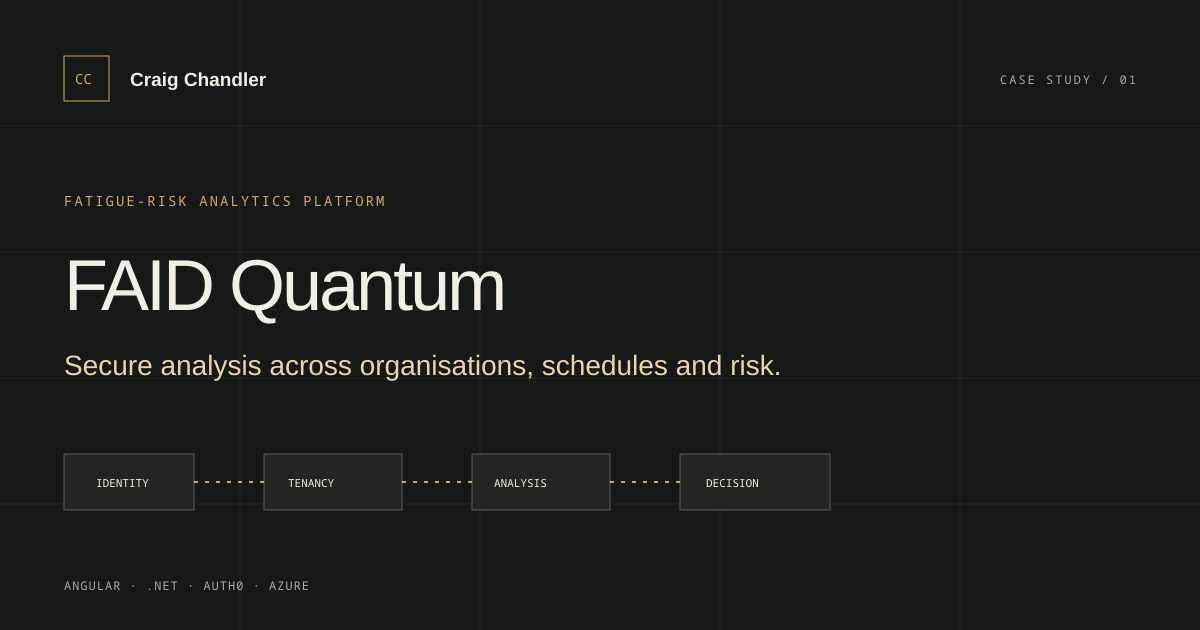
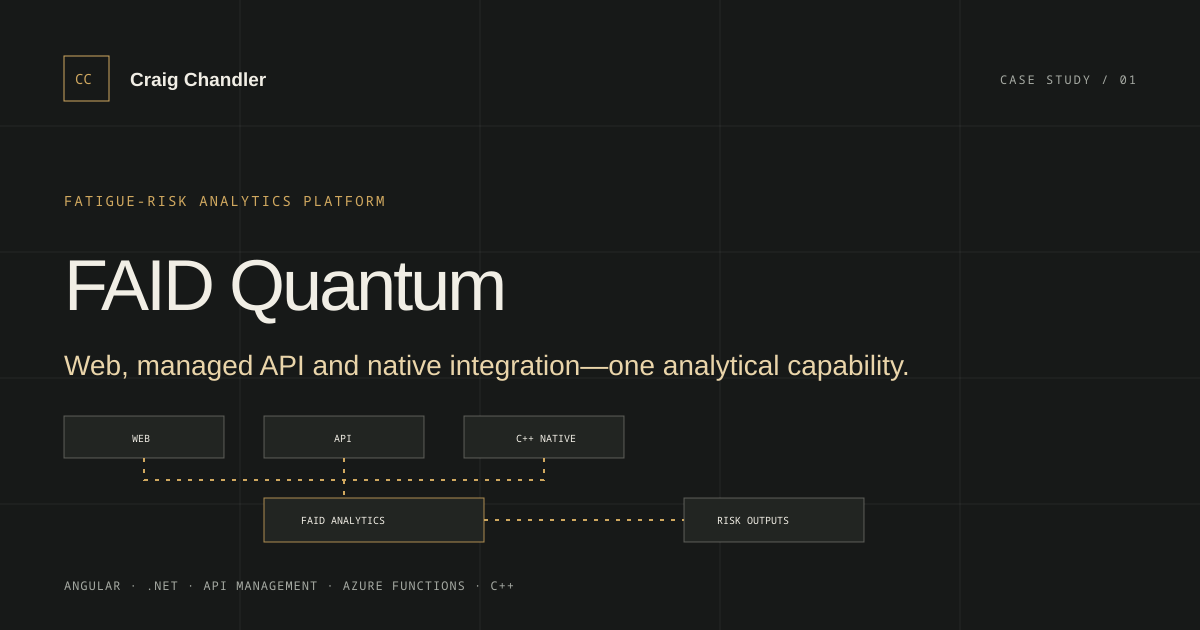
feat: update FAID Quantum platform details and enhance architecture diagram for clarity

diff --git a/src/styles/global.css b/src/styles/global.css
@@ -1356,9 +1356,7 @@ h3 {
 }
 
 .diagram-arrow,
-.diagram-control-link i,
-.diagram-boundary-link i,
-.diagram-stack-link i {
+.diagram-control-link i {
   color: var(--accent);
   font-family: var(--font-mono);
   font-style: normal;
@@ -1389,56 +1387,136 @@ h3 {
   line-height: 1.5;
 }
 
-/* FAID Quantum: identity boundary feeding a tenant-scoped application. */
+/* FAID Quantum: three delivery surfaces converging on one analytical capability. */
 .diagram-faid {
   display: grid;
-  align-items: center;
-  grid-template-columns: minmax(220px, 0.72fr) minmax(130px, auto) minmax(380px, 1.45fr);
-  gap: clamp(1rem, 2.6vw, 2.2rem);
+  gap: 1rem;
 }
 
-.diagram-identity {
-  border-style: dashed;
+.diagram-faid-delivery,
+.diagram-faid-support {
+  min-width: 0;
+  padding: clamp(1rem, 2vw, 1.5rem);
+  border: 1px solid var(--line-strong);
+  background: rgba(23, 25, 24, 0.86);
 }
 
-.diagram-tenant {
-  border-color: rgba(208, 168, 95, 0.45);
+.diagram-faid-surface-grid {
+  display: grid;
+  grid-template-columns: repeat(3, minmax(0, 1fr));
+  gap: 0.75rem;
 }
 
-.diagram-boundary-link {
-  display: flex;
-  align-items: center;
-  color: var(--muted);
+.diagram-faid-surface {
+  position: relative;
+  min-height: 138px;
+}
+
+.diagram-faid-surface::after {
+  position: absolute;
+  bottom: -2.05rem;
+  left: 50%;
+  width: 1px;
+  height: 1.25rem;
+  background: rgba(208, 168, 95, 0.58);
+  content: '';
+}
+
+.diagram-faid-surface em {
+  margin-top: 0.35rem;
+  color: var(--ink-soft);
   font-family: var(--font-mono);
   font-size: 0.52rem;
-  gap: 0.7rem;
+  font-style: normal;
   line-height: 1.45;
 }
 
-.diagram-boundary-link i {
-  font-size: 1rem;
+.diagram-faid-convergence {
+  display: flex;
+  align-items: center;
+  min-height: 46px;
+  border-top: 1px solid rgba(208, 168, 95, 0.38);
+  color: var(--muted);
+  font-family: var(--font-mono);
+  font-size: 0.52rem;
+  flex-direction: column;
+  gap: 0.25rem;
+  justify-content: center;
+  line-height: 1.45;
 }
 
-.diagram-stack-link {
+.diagram-faid-convergence i {
+  color: var(--accent);
+  font-family: var(--font-mono);
+  font-size: 1rem;
+  font-style: normal;
+}
+
+.diagram-faid-engine {
+  border-color: rgba(208, 168, 95, 0.58);
+  background: rgba(208, 168, 95, 0.045);
+}
+
+.diagram-faid-engine-flow {
   display: grid;
   align-items: center;
-  min-height: 45px;
+  grid-template-columns: minmax(100px, 0.6fr) auto minmax(240px, 1fr) auto minmax(130px, 0.7fr);
+  gap: 0.75rem;
+}
+
+.diagram-faid-engine-flow > span {
+  color: var(--muted);
+  font-family: var(--font-mono);
+  font-size: 0.55rem;
+  text-align: center;
+  line-height: 1.5;
+}
+
+.diagram-faid-engine-flow > i {
+  color: var(--accent);
+  font-family: var(--font-mono);
+  font-style: normal;
+}
+
+.diagram-faid-support-grid {
+  display: grid;
+  grid-template-columns: repeat(4, minmax(0, 1fr));
+  gap: 0.55rem;
+}
+
+.diagram-faid-support-grid > div {
+  display: flex;
+  min-width: 0;
+  min-height: 92px;
+  padding: 0.8rem;
+  border-top: 1px solid rgba(208, 168, 95, 0.52);
+  background: rgba(23, 25, 24, 0.48);
+  flex-direction: column;
+  gap: 0.25rem;
+}
+
+.diagram-faid-support-grid small {
+  color: var(--accent);
+  font-family: var(--font-mono);
+  font-size: 0.5rem;
+  letter-spacing: 0.05em;
+  text-transform: uppercase;
+}
+
+.diagram-faid-support-grid strong {
+  color: var(--ink-soft);
+  font-size: 0.7rem;
+  font-weight: 600;
+  line-height: 1.35;
+}
+
+.diagram-faid-support-grid span {
   color: var(--muted);
   font-family: var(--font-mono);
   font-size: 0.5rem;
-  text-align: center;
-  grid-template-columns: 1fr auto;
-  gap: 0.6rem;
+  line-height: 1.45;
 }
 
-.diagram-analysis-grid {
-  display: grid;
-  margin-top: 0.7rem;
-  grid-template-columns: repeat(2, minmax(0, 1fr));
-  gap: 0.7rem;
-}
-
-.diagram-output-row,
 .diagram-output-grid {
   display: grid;
   margin-top: 0.7rem;
@@ -1446,7 +1524,6 @@ h3 {
   gap: 0.45rem;
 }
 
-.diagram-output-row span,
 .diagram-output-grid span {
   padding: 0.55rem 0.4rem;
   border-top: 1px solid rgba(208, 168, 95, 0.52);
@@ -2066,7 +2143,11 @@ h3 {
   }
 
   .diagram-faid {
-    grid-template-columns: minmax(180px, 0.6fr) minmax(100px, auto) minmax(340px, 1.4fr);
+    gap: 0.85rem;
+  }
+
+  .diagram-faid-support-grid {
+    grid-template-columns: repeat(2, minmax(0, 1fr));
   }
 
   .diagram-control-link span {
@@ -2243,17 +2324,19 @@ h3 {
     gap: 2rem;
   }
 
-  .diagram-faid {
-    display: grid;
+  .diagram-faid-surface-grid {
     grid-template-columns: 1fr;
   }
 
-  .diagram-boundary-link {
-    justify-content: center;
-    text-align: center;
+  .diagram-faid-surface::after {
+    display: none;
   }
 
-  .diagram-boundary-link i,
+  .diagram-faid-convergence {
+    min-height: 38px;
+    border-top: 0;
+  }
+
   .diagram-control-link i {
     transform: rotate(90deg);
   }
@@ -2442,15 +2525,23 @@ h3 {
   }
 
   .diagram-inline-flow,
-  .diagram-analysis-grid,
   .diagram-stage-row,
   .diagram-dash .diagram-stage-row,
   .diagram-cycle-row,
   .diagram-persistence-list,
   .diagram-logic-grid,
-  .diagram-output-row,
   .diagram-output-grid {
     grid-template-columns: 1fr;
+  }
+
+  .diagram-faid-engine-flow,
+  .diagram-faid-support-grid {
+    grid-template-columns: 1fr;
+  }
+
+  .diagram-faid-engine-flow > i {
+    transform: rotate(90deg);
+    text-align: center;
   }
 
   .diagram-boundary-heading span,

diff --git a/src/content/work.ts b/src/content/work.ts
@@ -45,18 +45,18 @@ export const work: WorkItem[] = [
     title: 'FAID Quantum',
     kicker: 'Fatigue-risk analytics platform',
     summary:
-      'A secure, multi-tenant web platform that turns work schedules into practical fatigue-risk analysis and reporting.',
+      'A secure, multi-tenant fatigue-risk platform with interactive web, managed API and native integration options.',
     card: {
-      problem: 'Turn complex work schedules into secure, organisation-specific fatigue-risk analysis.',
-      role: 'Product architecture + full-stack engineering',
-      complexity: 'Angular · .NET · Azure · Auth0 · multi-tenancy · biomathematical analysis'
+      problem: 'Deliver one fatigue-analysis capability through secure web, API and native integration models.',
+      role: 'Product + integration architecture and engineering',
+      complexity: 'Angular · .NET · Azure · Auth0 · API Management · C++ · licensing'
     },
     metadata: {
-      title: 'FAID Quantum — Fatigue-Risk Analytics | Craig Chandler',
+      title: 'FAID Quantum — Fatigue-Risk Platform | Craig Chandler',
       description:
-        'Case study of a secure, multi-tenant fatigue-risk platform for analysing work schedules, built with Angular, .NET, Auth0 and Azure.',
+        'Case study of a multi-tenant fatigue-risk platform delivered through an interactive web product, managed developer API and native C++ library.',
       image: '/assets/social/faid-quantum.png',
-      imageAlt: 'FAID Quantum — multi-tenant fatigue-risk analytics platform',
+      imageAlt: 'FAID Quantum — web, API and native fatigue-risk integration platform',
       entityType: 'SoftwareApplication',
       applicationCategory: 'Fatigue-risk analysis software'
     },
@@ -83,15 +83,32 @@ export const work: WorkItem[] = [
         ]
       },
       {
-        label: '03 / Product outcome',
+        label: '03 / Integration models',
+        title: 'One analytical engine, three delivery models',
+        paragraphs: [
+          'The same analytical capability can be consumed interactively through FAID Quantum, remotely through the developer API, or embedded directly into third-party software through a native C++ library. Each surface fits a different operating context without turning the underlying fatigue model into three unrelated products.'
+        ],
+        points: [
+          'Web application — Angular and .NET provide schedule analysis, identity, organisation context, reporting and the complete user workflow.',
+          'Developer API — Azure API Management and .NET Azure Functions provide remote integration. Requests require API subscription credentials and valid product entitlement, checked separately through the InterDynamics Licensing Platform.',
+          'Native integration — A C++ shared library embeds the algorithms in rostering, scheduling or workforce-management software without depending on a remote web-service call.'
+        ]
+      },
+      {
+        label: '04 / Product outcome',
         title: 'Analysis that can be inspected and reported',
         paragraphs: [
-          'FAID Quantum brings schedule preparation, FAID and KSS indicators, comparative views and reporting into one browser-based workflow. Teams can examine fatigue exposure across a roster and carry the findings into their operational risk process.'
+          'FAID Quantum brings schedule preparation, FAID and KSS indicators, comparative views and reporting into one browser-based workflow. For integrated workflows, the developer API and native library let the consuming system choose managed or local calculation without redefining the analytical logic.'
         ]
       }
     ],
-    services: ['Product architecture', 'Full-stack engineering', 'Identity and tenancy', 'Cloud architecture'],
-    technologies: ['Angular', 'TypeScript', '.NET', 'C#', 'Auth0', 'Azure', 'OpenAPI'],
+    services: [
+      'Product & integration architecture',
+      'Full-stack engineering',
+      'API & cloud architecture',
+      'Identity, tenancy & entitlement'
+    ],
+    technologies: ['Angular', 'TypeScript', '.NET / C#', 'C++', 'Auth0', 'Azure API Management', 'Azure Functions', 'REST'],
     diagram: 'fatigue',
     featured: true,
     image: '/assets/images/faid-quantum-dashboard.webp',
@@ -100,10 +117,12 @@ export const work: WorkItem[] = [
     imageHeight: 1741,
     externalLinks: [
       { label: 'Visit FAID Quantum', href: 'https://faidquantum.com/' },
+      { label: 'Developer portal', href: 'https://developer.faidquantum.com/' },
       {
-        label: 'Read the user guide',
+        label: 'FAID Quantum user guide',
         href: 'https://www.interdynamics.com/download/documents/FAID-Quantum-Web-User-Guide.pdf'
-      }
+      },
+      { label: 'InterDynamics licensing platform', href: 'https://licensing.interdynamics.com/about' }
     ]
   },
   {
